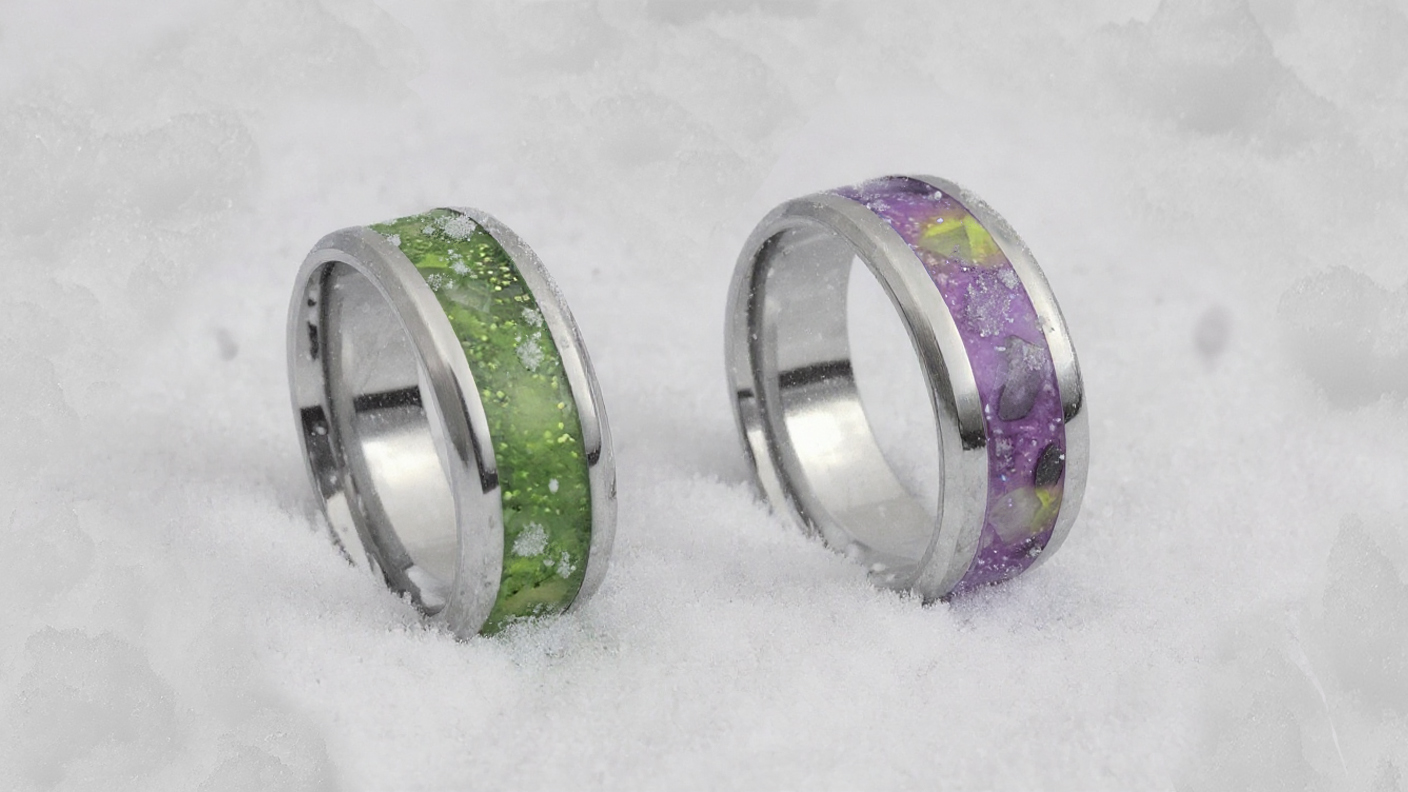
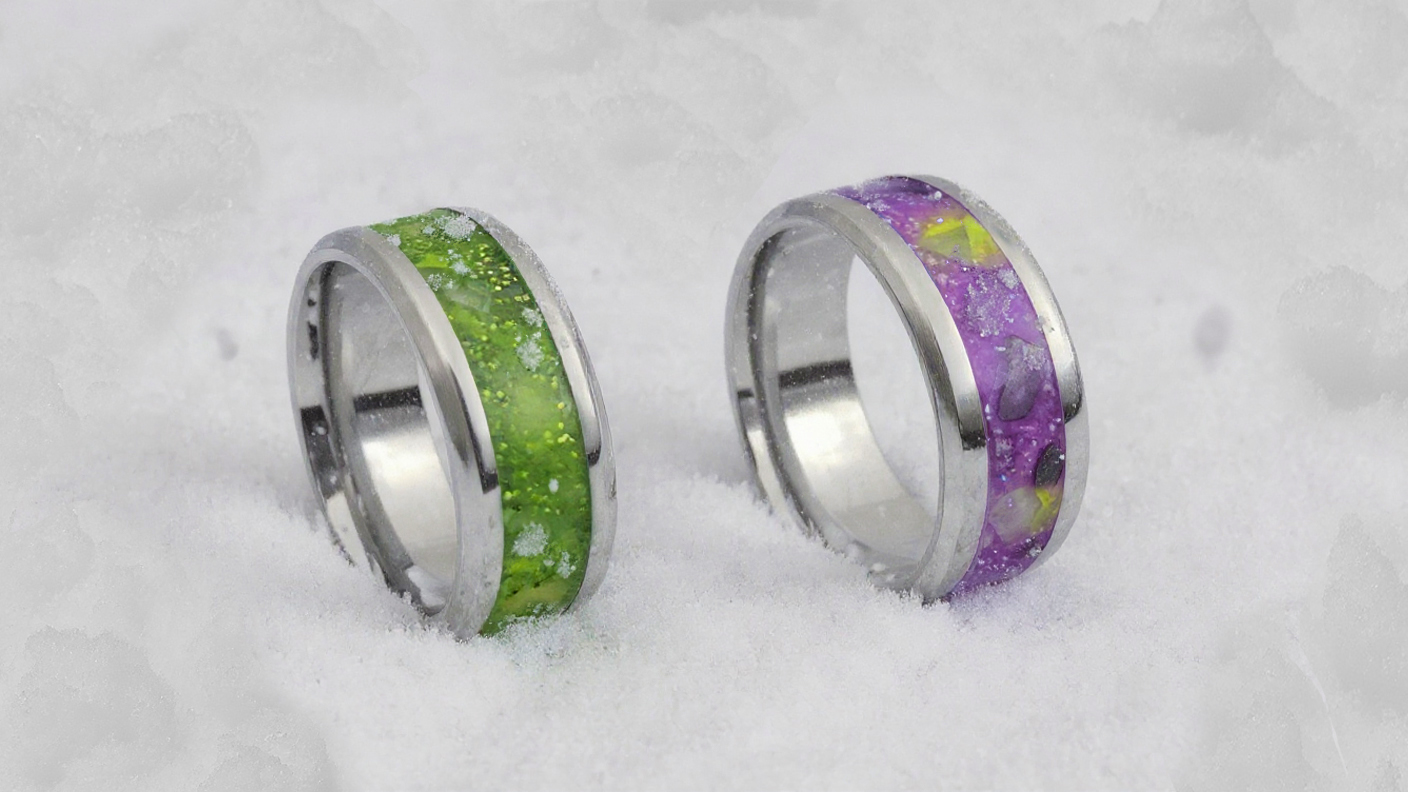
Added theme color for status bar, added responsive styles to infinite carousel

Changed region(s): [[0.2812, 0.2727, 0.4375, 0.7879], [0.6562, 0.2727, 0.7188, 0.3333], [0.7188, 0.6061, 0.75, 0.6364]]

diff --git a/src/components/IngredientsSection/IngredientsSection.tsx b/src/components/IngredientsSection/IngredientsSection.tsx
@@ -13,7 +13,7 @@ const IngredientsSection: React.FC = () => {
 
     return (
         <HomePageSection>
-            <Grid templateColumns="repeat(2, 1fr)" gap="16" alignItems={'center'}>
+            {/* <Grid templateColumns="repeat(2, 1fr)" gap="16" alignItems={'center'}>
                 <GridItem>
                     <Stack gap='3rem'>
                         <Stack gap='2rem'>
@@ -46,7 +46,46 @@ const IngredientsSection: React.FC = () => {
                 <GridItem>
                     {image}
                 </GridItem>
-            </Grid>
+            </Grid> */}
+
+            <Stack direction={{ base: 'column', md: 'row' }}
+                gap={{ md: '2rem' }}
+                alignItems={{ md: 'center' }}
+            >
+                <Stack gap={{ base: '1rem', md: '3rem'}}>
+                    <Stack gap='2rem'>
+                        <Stack flexDirection={'column'} gap='1rem'>
+                            <Stack gap={'0.75rem'}>
+                                <Text as='p' color={'#82827c'} letterSpacing={'0.1rem'} fontSize={'0.875rem'} textAlign={{base: 'center', md: 'start'}}>3 SIMPLE INGREDIENTS</Text>
+                                <Text as='h2' fontSize={'1.875rem'} lineHeight={'2.375rem'} whiteSpace={'pre-line'} textWrap={'balance'} fontWeight={600} textAlign={{base: 'center', md: 'start'}}>Beauty, Lit From Within</Text>
+                            </Stack>
+                            <Text as='p' color={'#5D5D58'} fontSize={'1.125rem'} lineHeight={'1.75rem'} whiteSpace={'pre-line'} textAlign={{base: 'center', md: 'start'}}>Crystal, stone, and glow powder—fused in harmony to craft a luminous masterpiece.</Text>
+                        </Stack>
+                    </Stack>
+                    <Box display={{ base: 'blobk', md: 'none' }} alignSelf={'center'}>
+                        {image}
+                    </Box>
+                    <Stack>
+                        <Stack gap={'0.25rem'}>
+                            <Text as='h3' fontWeight={600} fontSize={'1.125rem'} lineHeight={'1.75rem'}>1. Crystals</Text>
+                            <Text as='p' color={'#5D5D58'}>Crystals aren’t just beautiful—they’re tools of balance, spirit elevation, and energetic healing.</Text>
+                        </Stack>
+                        <Box marginBlock={'1.5rem'} marginInline={'0rem'} borderInlineStartWidth={0} borderWidth={0} borderTopWidth={'1px'} alignSelf={'stretch'} borderColor={'inherit'} width={'auto'} height={'auto'}></Box>
+                        <Stack gap={'0.25rem'}>
+                            <Text as='h3' fontWeight={600} fontSize={'1.125rem'} lineHeight={'1.75rem'}>2. Stones</Text>
+                            <Text as='p' color={'#5D5D58'}>Each stone carries ancient earth magic—centering your energy and restoring inner calm.</Text>
+                        </Stack>
+                        <Box marginBlock={'1.5rem'} marginInline={'0rem'} borderInlineStartWidth={0} borderWidth={0} borderTopWidth={'1px'} alignSelf={'stretch'} borderColor={'inherit'} width={'auto'} height={'auto'}></Box>
+                        <Stack gap={'0.25rem'}>
+                            <Text as='h3' fontWeight={600} fontSize={'1.125rem'} lineHeight={'1.75rem'}>3. Glow Powder</Text>
+                            <Text as='p' color={'#5D5D58'}>Scientifically proven to make humans go ‘ooooh’ and forget what they were doing.</Text>
+                        </Stack>
+                    </Stack>
+                </Stack>
+                <Box display={{ base: 'none', md: 'block' }}>
+                    {image}
+                </Box>
+            </Stack>
         </HomePageSection>
     );
 };

diff --git a/src/components/Content.tsx b/src/components/Content.tsx
@@ -5,7 +5,7 @@ import { ProductsService } from "../services/ProductsService";
 
 const Content: React.FC = () => {
   const [featuredProducts, setFeaturedProducts] = useState<Product[]>([]);
-  
+
   useEffect(() => {
     const featuredProducts = ProductsService.getFeaturedProducts();
     setFeaturedProducts(featuredProducts);
@@ -14,16 +14,18 @@ const Content: React.FC = () => {
   return (
     <main style={{ flex: 1, padding: "1rem", background: "#f9f9f9" }}>
       <div className="product-grid">
-        {featuredProducts.map((product: Product) => (
-          <ProductCard
-            key={product.productId}
-            productId={product.productId}
-            productName={product.productName}
-            description={product.description}
-            price={product.price}
-            images={product.images}
-          />
-        ))}
+        {featuredProducts.map((product: Product, index: number) => {
+          return (
+            <ProductCard
+              key={product.productId}
+              productId={product.productId}
+              productName={product.productName}
+              description={product.description}
+              price={product.price}
+              images={product.images}
+            />
+          );
+        })}
       </div>
     </main>
   );

diff --git a/src/services/ProductsService.ts b/src/services/ProductsService.ts
@@ -6,7 +6,7 @@ const products: Product[] = [
     productName: "Wireless Mouse",
     description: "Ergonomic and precise, with Bluetooth support.",
     price: 29.99,
-    images: ["/images/mouse.jpg"],
+    images: ["/images/orange-ring-1.jpg"],
     isActive: true,
     featured: true
   },
@@ -15,7 +15,7 @@ const products: Product[] = [
     productName: "Mechanical Keyboard",
     description: "Backlit keys, satisfying switches.",
     price: 79.99,
-    images: ["/images/keyboard.jpg"],
+    images: ["/images/orange-ring-1.jpg"],
     isActive: true,
     featured: false
   },
@@ -24,7 +24,7 @@ const products: Product[] = [
     productName: "Noise-Canceling Headphones",
     description: "Immersive sound and silence.",
     price: 149.99,
-    images: ["/images/headphones.jpg"],
+    images: ["/images/orange-ring-1.jpg"],
     isActive: true,
     featured: false
   },
@@ -33,7 +33,7 @@ const products: Product[] = [
     productName: "Bluetooth Speaker",
     description: "Best quiality sound and portability.",
     price: 149.99,
-    images: ["/images/speaker.jpg"],
+    images: ["/images/orange-ring-1.jpg"],
     isActive: true,
     featured: false
   },

diff --git a/src/components/Welcome/Welcome.tsx b/src/components/Welcome/Welcome.tsx
@@ -16,6 +16,7 @@ const Welcome: React.FC = () => {
                 gap={{md: '2rem'}}
                 alignItems={{ md: 'center'}}
             >
+                {/* Slider */}
                 <Box flexGrow={{md: 1}} 
                     borderStartEndRadius={'4rem'} 
                     borderEndStartRadius={'4rem'} 
@@ -32,6 +33,7 @@ const Welcome: React.FC = () => {
                         </BeforeAfterSlider>
                     </AspectRatio>
                 </Box>
+                {/* Text and buttons */}
                 <Stack gap={'2rem'} maxWidth={{md: '22rem', lg: '32rem'}} minWidth={{lg: '22rem'}}>
                     <Stack gap={'1.5rem'}>
                         <Text as='h1' 

diff --git a/index.html b/index.html
@@ -13,6 +13,16 @@
   <link rel="manifest" href="/favicons/site.webmanifest" />
   <!-- #endregion -->
 
+  <!-- #region Address and Status bar -->
+  <!-- Chrome, Firefox OS and Opera -->
+  <meta name="theme-color" content="green">
+  <!-- Windows Phone -->
+  <meta name="msapplication-navbutton-color" content="blue">
+  <!-- iOS Safari -->
+  <meta name="apple-mobile-web-app-status-bar-style" content="yellow">
+  <!-- The component ThemeColorMetaTag is also being used -->
+  <!-- #endregion -->
+
   <meta name="viewport" content="width=device-width, initial-scale=1.0" />
   <title>Hue & Hoot</title>
 </head>

diff --git a/src/components/ThemeColorMetaTag.tsx b/src/components/ThemeColorMetaTag.tsx
@@ -1,0 +1,20 @@
+import { useEffect } from 'react';
+import { useColorModeValue } from './ui/color-mode';
+
+function ThemeColorMetaTag() {
+  const themeColor = useColorModeValue('pink', 'orange'); // adjust to match your theme
+
+  useEffect(() => {
+    let metaTag = document.querySelector('meta[name="theme-color"]');
+    if (!metaTag) {
+      metaTag = document.createElement('meta');
+      (metaTag as any).name = 'theme-color';
+      document.head.appendChild(metaTag);
+    }
+    metaTag.setAttribute('content', themeColor);
+  }, [themeColor]);
+
+  return null;
+}
+
+export default ThemeColorMetaTag;

diff --git a/src/components/Layout/Layout.tsx b/src/components/Layout/Layout.tsx
@@ -4,6 +4,7 @@ import Sidebar from "../Sidebar/Sidebar";
 import Footer from "../Footer/Footer";
 import "./Layout.css";
 import Header from "../Header/Header";
+import ThemeColorMetaTag from "../ThemeColorMetaTag";
 
 const Layout: React.FC = () => {
   const [isHeaderExpanded, setIsHeaderExpanded] = useState(false);
@@ -11,6 +12,7 @@ const Layout: React.FC = () => {
 
   return (
     <div className="app-container">
+      <ThemeColorMetaTag />
       <Header
         expanded={isHeaderExpanded}
         toggleHeader={() => setIsHeaderExpanded((prev) => !prev)}

diff --git a/src/components/InfiniteCarousel/InfiniteCarousel.tsx b/src/components/InfiniteCarousel/InfiniteCarousel.tsx
@@ -19,7 +19,7 @@ const InfiniteCarousel: React.FC = () => {
                     overflow={'hidden'}
                 >
                     <VStack gap={'1rem'}>
-                        <Text as='h2' fontSize={'1.125rem'} lineHeight={'1.75 rem'}>Featured Products</Text>
+                        <Text as='h2' fontSize={'1.125rem'} lineHeight={'1.75 rem'} fontWeight={700}>Featured Products</Text>
                         <div className="slider">
                             <div className="slide-track">
                                 <div className="slide">
